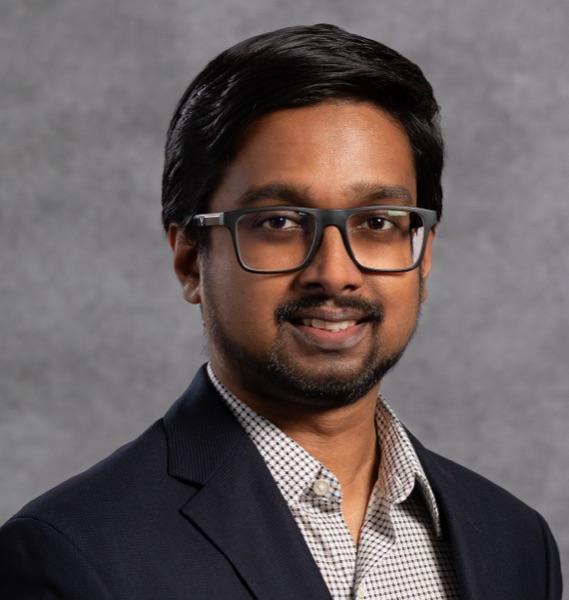
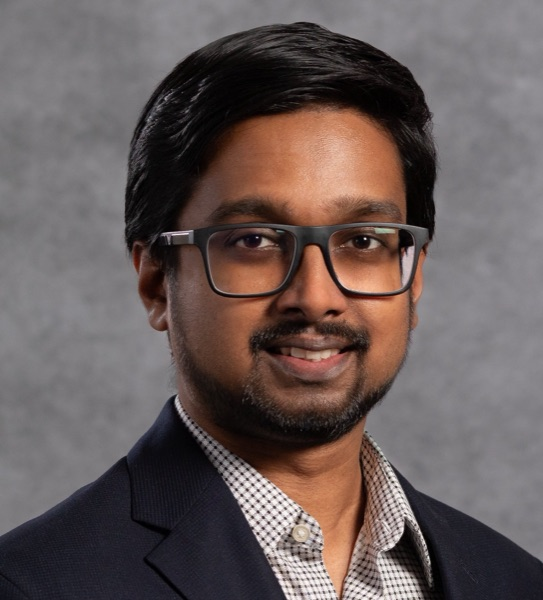
Update bio and headshot; edit sample blog post

diff --git a/src/index.md b/src/index.md
@@ -2,6 +2,11 @@
 layout: home.njk
 title: ""
 ---
-I'm a PhD candidate in the Department of Biomedical Engineering at Johns Hopkins University, advised by Joshua Vogelstein, Pratik Chaudhari, and Carey Priebe. My research focuses on learning from non-stationary data, culminating in a mathematical framework called *prospective learning*.
 
-I received an M.S.E. in Applied Mathematics and Statistics from Johns Hopkins (2024) and a B.Sc. in Biomedical Engineering from the University of Moratuwa, Sri Lanka (2020).
+[Hello there](https://www.youtube.com/watch?v=rEq1Z0bjdwc)! I'm an Applied Scientist at Amazon. I completed my PhD in Biomedical Engineering at Johns Hopkins University in May 2026, where I was advised by Profs. [Joshua Vogelstein](https://scholar.google.com/citations?user=DWPfdT4AAAAJ&hl=en), [Pratik Chaudhari](https://scholar.google.com/citations?user=c_z5hWEAAAAJ&hl=en), and [Carey Priebe](https://scholar.google.com/citations?user=clTVC4UAAAAJ&hl=en). My doctoral research focused on learning from non-stationary data and culminated in a mathematical framework called *[prospective learning](https://arxiv.org/abs/2411.00109)*. This work connects closely to ongoing efforts in continual learning and out-of-distribution (OOD) generalization.
+
+More broadly, I'm driven by two goals: advancing AI by designing new models and algorithms with strong theoretical guarantees, and building efficient, robust learning systems that hold up in a dynamic world. My interests span generative modeling, reinforcement learning, continual learning, learning theory, and computer vision.
+
+I also hold a Master's in Applied Mathematics and Statistics from Johns Hopkins (2024) and a Bachelor's in Biomedical Engineering from the University of Moratuwa, Sri Lanka (2020).
+
+Outside work, you'll find me spending time with my wife, [Malsha](https://malshav.github.io/), playing the piano, or out hiking and swimming. I'm also an avid history, philosophy and astronomy enthusiast!

diff --git a/src/blog/posts/2026-09-20-hello-math.md b/src/blog/posts/2026-09-20-hello-math.md
@@ -1,9 +1,9 @@
 ---
-title: Hello, math
+title: Test!
 date: 2026-09-20
 math: true
 ---
-Inline math like $e^{i\pi} + 1 = 0$ and display math both work; they are rendered to HTML at build time, so no JavaScript is needed.
+This is only a test. More to come.
 
 $$\int_0^\infty e^{-x^2}\,dx = \frac{\sqrt{\pi}}{2}$$
 
